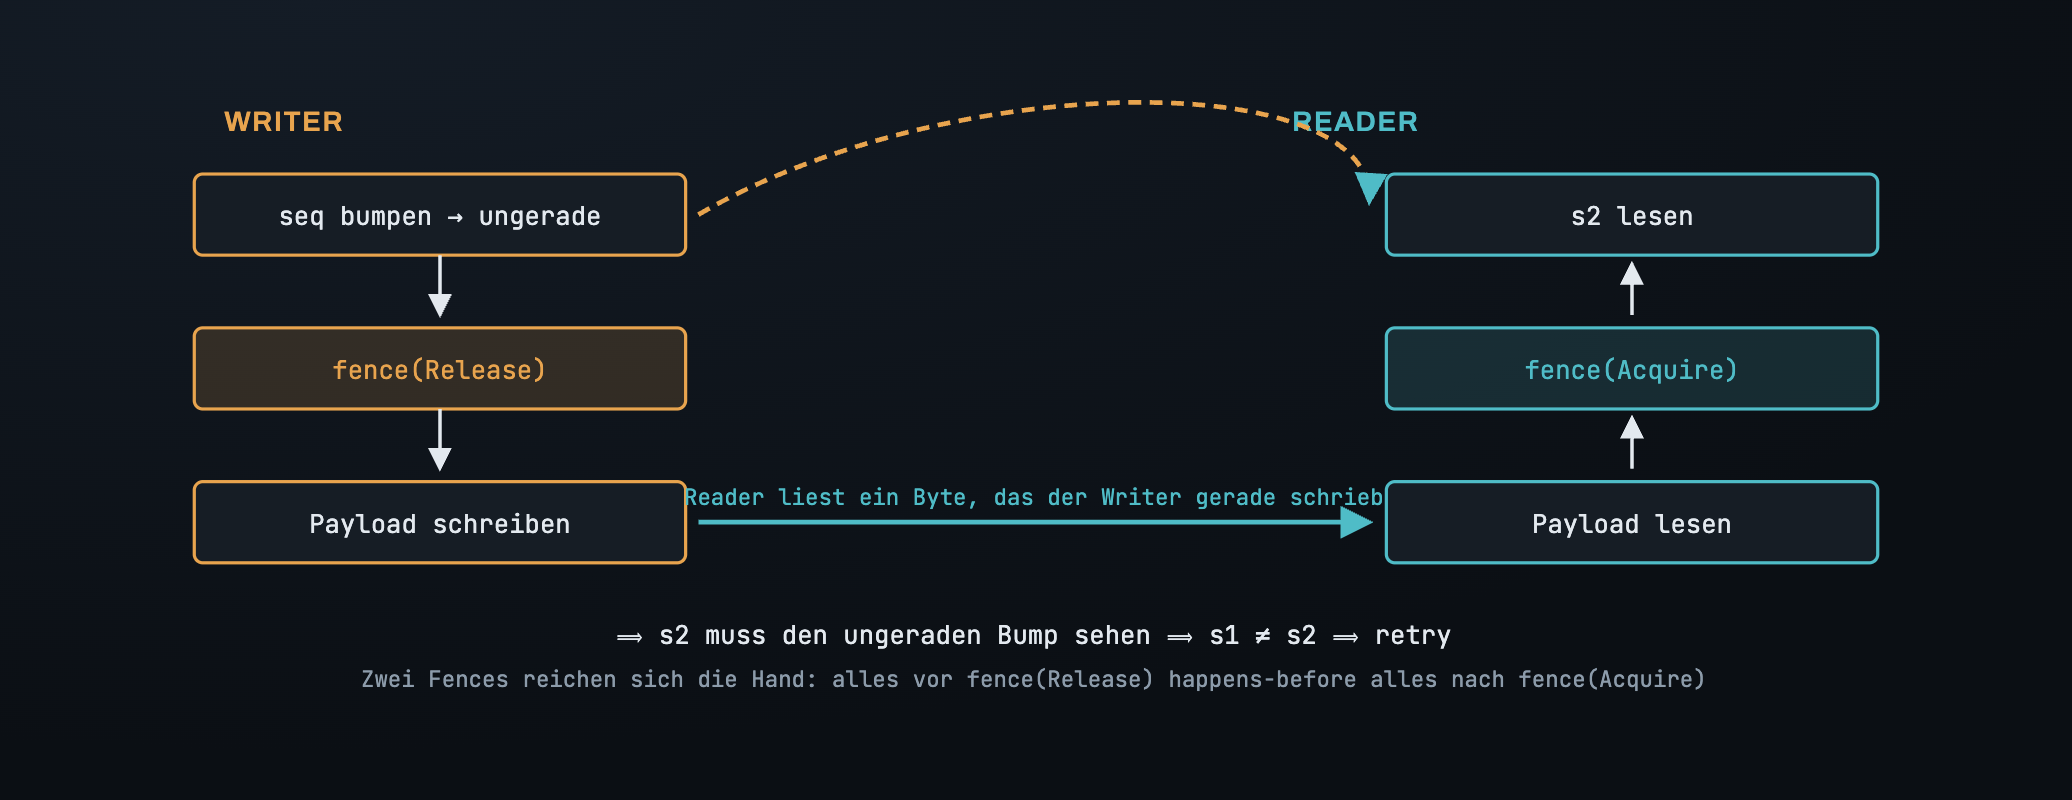
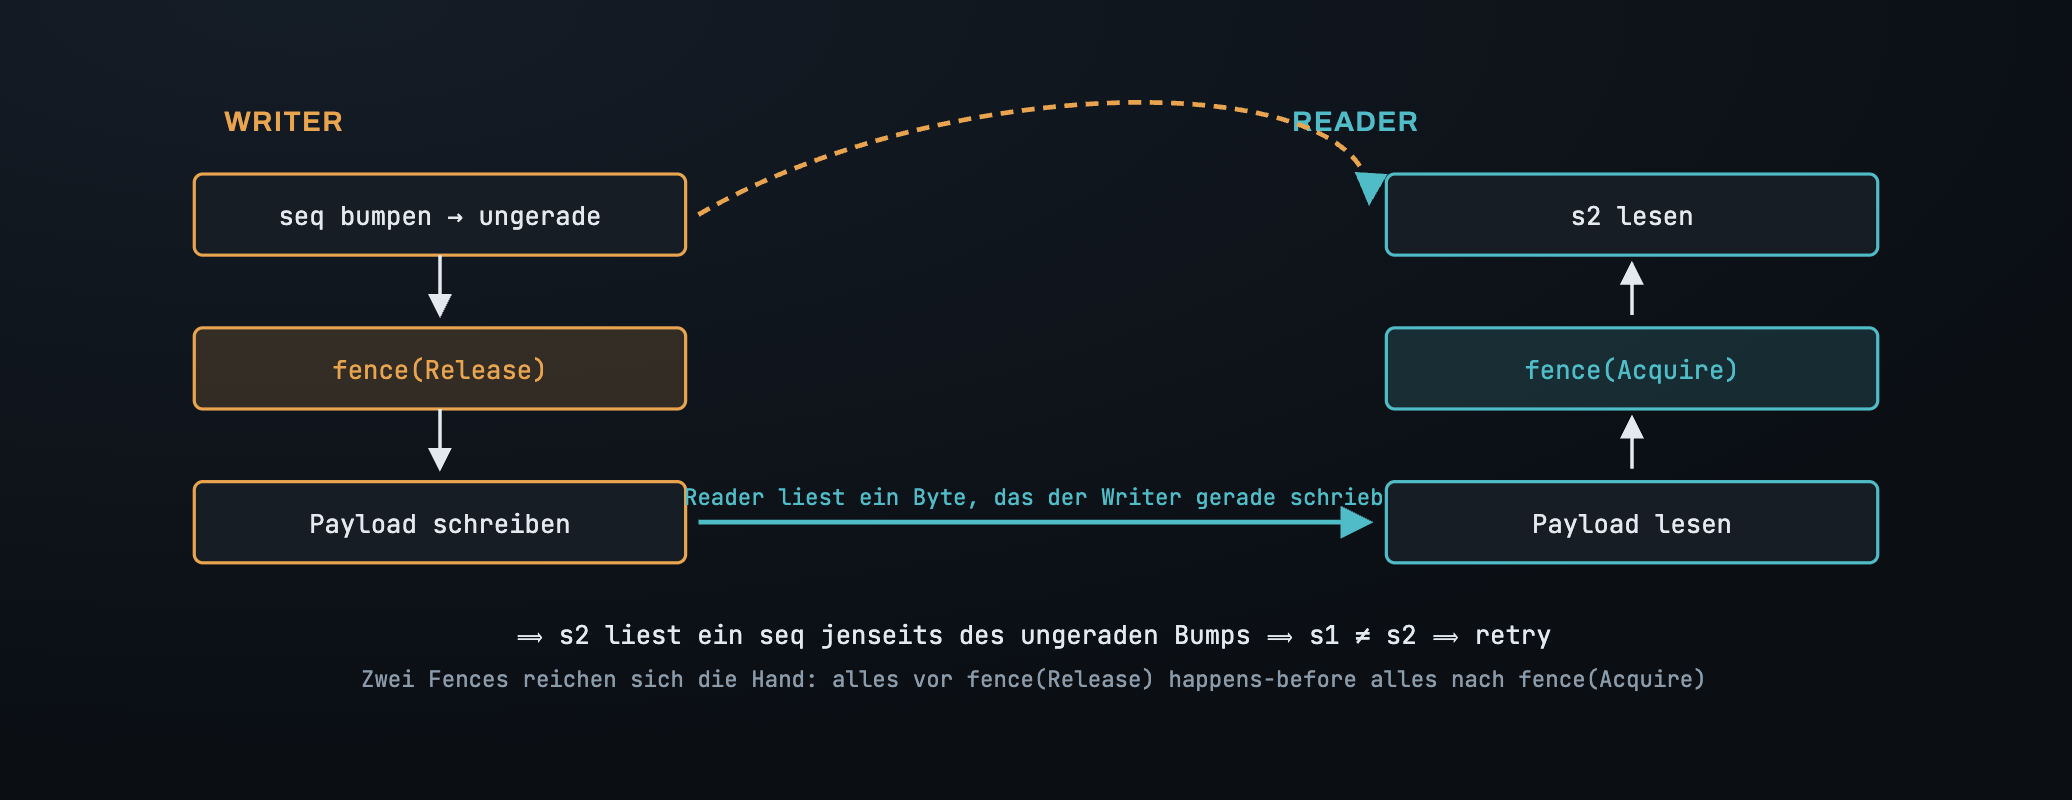
Part 3: clarify the happens-before claim ("past the odd bump")
"s2 must observe the odd bump" misread as "s2 equals the odd value".
Reworded to "s2 reads a seq that has advanced past the opening (odd)
bump, so s2 != s1", with a worked 100/101/102 example, and why we key
on the odd bump (earliest marker guaranteed before any payload byte)
not the even one. Updated EN + DE prose, the happens-before diagram
label (EN+DE re-render), and the artifact.

Claude-Session: https://claude.ai/code/session_01CNveMk5uVe9XczYWD9ruQ2

Changed region(s): [[0.2471, 0.7812, 0.7413, 0.8125]]

diff --git a/plan/blog/seqlock/img/artifact_seqlock-gates.html b/plan/blog/seqlock/img/artifact_seqlock-gates.html
@@ -622,7 +622,7 @@ compare_exchange(cur, cur + 1, <span class="t">Release</span>, Relaxed);   <span
     </div>
 
     <div class="rule">
-      <p>Nếu bản copy của reader nhặt được <strong>dù chỉ một byte</strong> của lần ghi N, thì lần đọc <code>s2</code> của nó <strong>bắt buộc</strong> phải nhìn thấy bump-lẻ của lần ghi N.</p>
+      <p>Nếu bản copy của reader nhặt được <strong>dù chỉ một byte</strong> của lần ghi N, thì lần đọc <code>s2</code> của nó <strong>bắt buộc</strong> đọc ra một seq đã tiến <em>qua khỏi</em> bump-lẻ của lần ghi N — nên <code>s2 ≠ s1</code>. (Không phải s2 đúng bằng giá trị lẻ: nếu writer còn ghi dở thì s2 là giá trị lẻ, nếu đã ghi xong thì s2 là giá trị chẵn kế tiếp — cả hai đều lớn hơn s1. Ta chốt ở bump-lẻ vì nó là mốc sớm nhất chắc chắn đứng trước mọi byte payload; bump-chẵn có thể chưa xảy ra khi reader nhặt byte.)</p>
     </div>
 
     <figure>
@@ -671,7 +671,7 @@ compare_exchange(cur, cur + 1, <span class="t">Release</span>, Relaxed);   <span
 
         <!-- derived edge -->
         <path d="M 282 63 C 400 -6 600 -6 596 57" class="none s-w" stroke-width="2.2" stroke-dasharray="6 4" marker-end="url(#ah-r4)"/>
-        <text x="439" y="264" text-anchor="middle" class="lbl f-ink">⟹ s2 bắt buộc nhìn thấy bump-lẻ ⟹ s1 ≠ s2 ⟹ retry</text>
+        <text x="439" y="264" text-anchor="middle" class="lbl f-ink">⟹ s2 đọc seq đã qua bump-lẻ ⟹ s1 ≠ s2 ⟹ retry</text>
         <text x="439" y="284" text-anchor="middle" class="lbl-sm f-muted">hai fence bắt tay: mọi thứ trước fence(Release) happens-before mọi thứ sau fence(Acquire)</text>
       </svg>
       <figcaption><strong>Cặp fence là cái nối.</strong> Riêng lẻ, mỗi fence chỉ sắp xếp lại thứ tự trong thread của nó. Nhưng khi reader đọc trúng một byte mà writer ghi sau <code>fence(Release)</code>, và reader chạy <code>fence(Acquire)</code> sau khi đọc, thì hai fence khoá vào nhau: tất cả những gì xảy ra trước fence bên writer trở thành happens-before tất cả những gì xảy ra sau fence bên reader. Bump-lẻ nằm ở vế đầu, <code>s2</code> nằm ở vế sau — nên rách là bị bắt.</figcaption>

diff --git a/plan/blog/seqlock/img/src/de/diag_happens_before.html b/plan/blog/seqlock/img/src/de/diag_happens_before.html
@@ -55,6 +55,6 @@ svg{display:block;width:940px;height:auto}
 
         <!-- derived edge -->
         <path d="M 282 63 C 400 -6 600 -6 596 57" class="none s-w" stroke-width="2.2" stroke-dasharray="6 4" marker-end="url(#ah-r4)"/>
-        <text x="439" y="264" text-anchor="middle" class="lbl f-ink">⟹ s2 muss den ungeraden Bump sehen ⟹ s1 ≠ s2 ⟹ retry</text>
+        <text x="439" y="264" text-anchor="middle" class="lbl f-ink">⟹ s2 liest ein seq jenseits des ungeraden Bumps ⟹ s1 ≠ s2 ⟹ retry</text>
         <text x="439" y="284" text-anchor="middle" class="lbl-sm f-muted">Zwei Fences reichen sich die Hand: alles vor fence(Release) happens-before alles nach fence(Acquire)</text>
       </svg></div></body></html>

diff --git a/plan/blog/seqlock/img/src/en/diag_happens_before.html b/plan/blog/seqlock/img/src/en/diag_happens_before.html
@@ -55,6 +55,6 @@ svg{display:block;width:940px;height:auto}
 
         <!-- derived edge -->
         <path d="M 282 63 C 400 -6 600 -6 596 57" class="none s-w" stroke-width="2.2" stroke-dasharray="6 4" marker-end="url(#ah-r4)"/>
-        <text x="439" y="264" text-anchor="middle" class="lbl f-ink">⟹ s2 must observe the odd bump ⟹ s1 ≠ s2 ⟹ retry</text>
+        <text x="439" y="264" text-anchor="middle" class="lbl f-ink">⟹ s2 reads a seq past the odd bump ⟹ s1 ≠ s2 ⟹ retry</text>
         <text x="439" y="284" text-anchor="middle" class="lbl-sm f-muted">two fences shake hands: everything before fence(Release) happens-before everything after fence(Acquire)</text>
       </svg></div></body></html>

diff --git a/plan/blog/seqlock/de/03_memory_ordering.md b/plan/blog/seqlock/de/03_memory_ordering.md
@@ -132,7 +132,8 @@ Garantie.
 Die zu beweisende Behauptung ist eine einzige:
 
 > Greift die Kopie des Readers auch nur **ein einziges Byte** von Write N auf, dann
-> **muss** der `s2`-Read des Readers den Bump auf ungerade von Write N beobachten.
+> **muss** der `s2`-Read des Readers einen seq-Wert zurückliefern, der über den
+> öffnenden (ungeraden) Bump von Write N hinaus fortgeschritten ist — also `s2 ≠ s1`.
 
 ![Zwei fences im Handshake: alles vor Release happens-before alles nach Acquire](../img/de/diag_happens_before.png)
 
@@ -142,6 +143,15 @@ Read eine `fence(Acquire)` ausführt, rasten die beiden fences ineinander: Alles
 fence des Writers happens-before alles nach der fence des Readers. Der Bump auf ungerade
 liegt auf der ersten Seite; `s2` auf der zweiten. Also wird ein torn read *garantiert*
 gefangen — `s1 != s2`, retry.
+
+(„Über den ungeraden Bump hinaus" heißt nicht, dass `s2` den ungeraden Wert selbst liest —
+es heißt, dass `s2` ein seq liest, das diesen Schritt bereits *einschließt*. War der Wert
+vor Write N stabil bei 100, so macht ihn der ungerade Bump zu 101, der gerade Bump zu 102.
+Griff der Reader sein Byte, während der Write noch lief, liest `s2` 101; war der Write schon
+fertig, liest `s2` 102. In beiden Fällen ist es jenseits von 100, also `s2 ≠ s1`. Wir setzen
+am *ungeraden* Bump an, nicht am geraden, weil der ungerade Bump der früheste Marker ist, der
+garantiert jedem payload-Byte vorausgeht — wenn der Reader ein Byte greift, ist der gerade
+Bump vielleicht noch nicht passiert, der ungerade aber ganz sicher.)
 
 Das ist auch der Grund, warum ein Ordering-auf-der-Operation nicht genügen würde, selbst
 dort, wo es typecheckt: Ein Ordering auf einem Atomic verknüpft *dieses Atomic* über

diff --git a/plan/blog/seqlock/en/03_memory_ordering.md b/plan/blog/seqlock/en/03_memory_ordering.md
@@ -118,7 +118,8 @@ relationship, and that relationship is the real guarantee.
 The claim to prove is single:
 
 > If the reader's copy picks up **even one byte** of write N, then the reader's `s2`
-> read **must** observe write N's odd-bump.
+> read **must** come back with a sequence value that has advanced past write N's
+> opening (odd) bump — so `s2 ≠ s1`.
 
 ![Two fences handshake: everything before Release happens-before everything after Acquire](../img/en/diag_happens_before.png)
 
@@ -127,6 +128,14 @@ writer stored *after* its `fence(Release)`, and the reader runs `fence(Acquire)`
 the read, the two fences lock together: everything before the writer's fence
 happens-before everything after the reader's fence. The odd-bump is on the first side;
 `s2` is on the second. So a torn read is *guaranteed* to be caught — `s1 != s2`, retry.
+
+("Past the odd bump" doesn't mean `s2` reads the odd value itself — it means `s2` reads a
+seq that has *incorporated* that increment. Say the value was stable at 100 before write N.
+The odd bump makes it 101, then the even bump 102. If the reader grabbed its byte while the
+write was still in flight, `s2` reads 101; if the write had already finished, `s2` reads 102.
+Either way it's past 100, so `s2 ≠ s1`. We key on the *odd* bump, not the even one, because
+the odd bump is the earliest marker guaranteed to precede any payload byte — when the reader
+grabs a byte, the even bump may not have happened yet, but the odd bump certainly has.)
 
 This is also why an ordering-on-the-op wouldn't be enough even where it type-checks: an
 ordering on an atomic ties *that atomic* across threads, but here the data channel is
